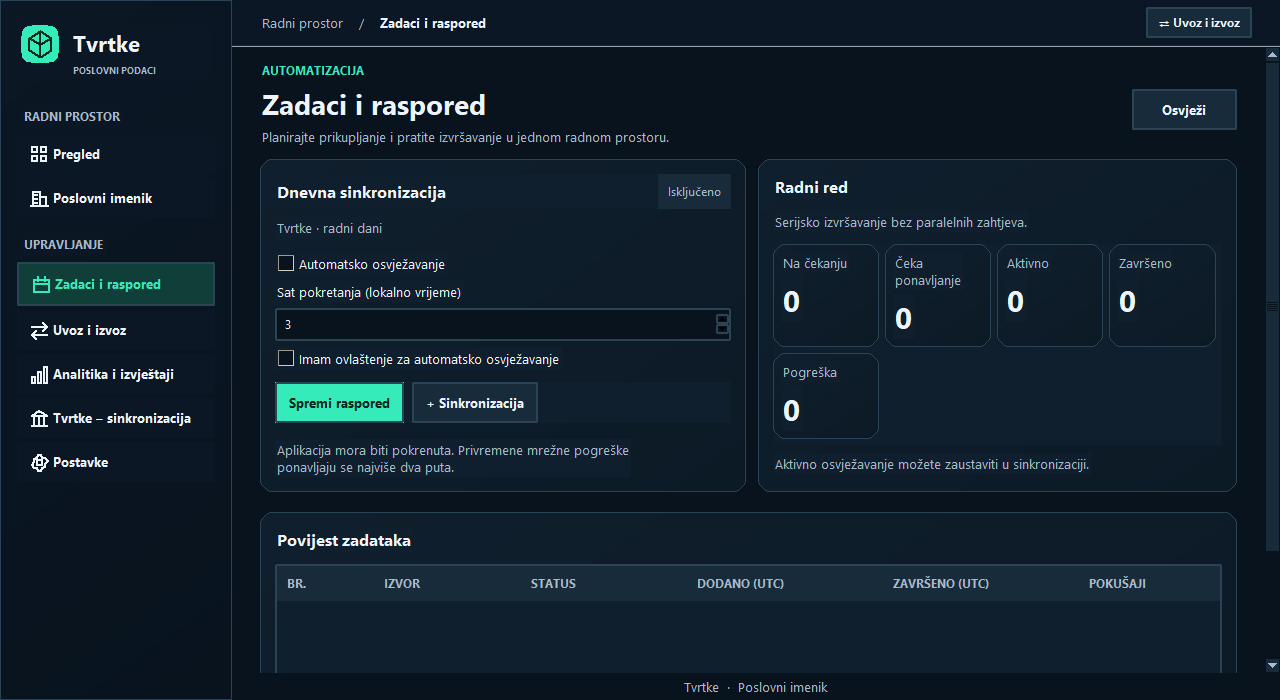
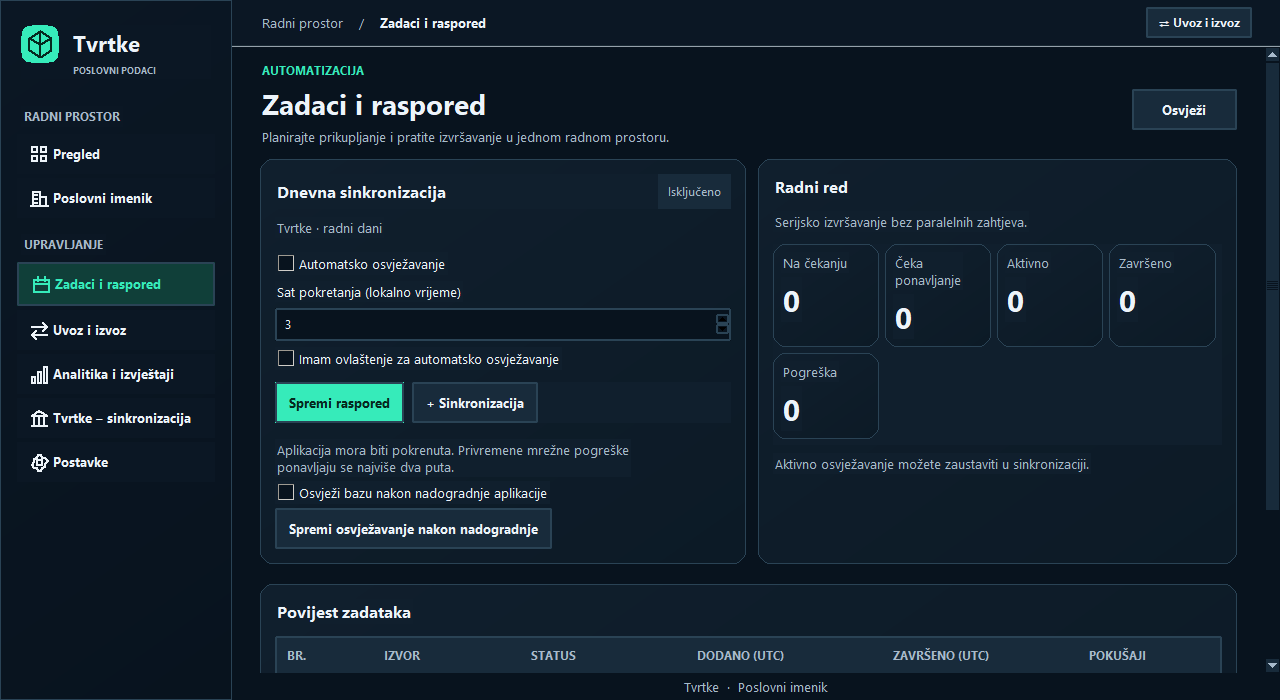
Add native saved companies and access settings, plus isolated WordPress directory prototype

diff --git a/wordpress/tvrtke/tvrtke.php b/wordpress/tvrtke/tvrtke.php
@@ -1,0 +1,194 @@
+<?php
+/**
+ * Plugin Name: Tvrtke
+ * Plugin URI: https://tvrtke.com.hr/
+ * Description: Privatni poslovni imenik, uvoz CSV podataka i spremljeni odabiri.
+ * Version: 0.1.0
+ * Author: Brendigo
+ * Author URI: https://brendigo.com/
+ * Requires PHP: 8.1
+ * Text Domain: tvrtke
+ */
+defined('ABSPATH') || exit;
+
+final class Brendigo_Tvrtke {
+    private const LIMIT = 50;
+    private static function table(): string {
+        global $wpdb;
+        return $wpdb->prefix . 'brendigo_tvrtke';
+    }
+    public static function activate(): void {
+        global $wpdb;
+        require_once ABSPATH . 'wp-admin/includes/upgrade.php';
+        $table = self::table();
+        $collate = $wpdb->get_charset_collate();
+        dbDelta("CREATE TABLE $table (
+            mbs char(9) NOT NULL,
+            oib char(11) NOT NULL DEFAULT '',
+            title varchar(255) NOT NULL,
+            city varchar(120) NOT NULL DEFAULT '',
+            email varchar(254) NOT NULL DEFAULT '',
+            saved tinyint unsigned NOT NULL DEFAULT 0,
+            PRIMARY KEY  (mbs),
+            KEY title (title(150)),
+            KEY city (city),
+            KEY oib (oib),
+            KEY saved (saved,mbs)
+        ) ENGINE=InnoDB $collate;");
+    }
+    public static function menu(): void {
+        add_menu_page('Tvrtke', 'Tvrtke', 'manage_options', 'brendigo-tvrtke', [self::class,'page'], 'dashicons-building');
+    }
+    private static function authorize(string $action): void {
+        if (!current_user_can('manage_options')) {
+            wp_die('Nemate ovlaštenje.', '', ['response'=>403]);
+        }
+        check_admin_referer('tvrtke_'.$action);
+    }
+    private static function input(array $source, string $key): string {
+        return isset($source[$key]) && is_string($source[$key]) ? sanitize_text_field(wp_unslash($source[$key])) : '';
+    }
+    private static function redirect(string $notice): void {
+        wp_safe_redirect(add_query_arg(['page'=>'brendigo-tvrtke','notice'=>$notice],admin_url('admin.php')));
+        exit;
+    }
+    private static function normalize_id(string $value, int $length): string {
+        $value=trim($value);
+        return preg_match('/^[0-9]{1,'.$length.'}$/D',$value) ? str_pad($value,$length,'0',STR_PAD_LEFT) : '';
+    }
+    public static function import(): void {
+        self::authorize('import');
+        global $wpdb;
+        $file=$_FILES['tvrtke_csv']??null;
+        if (!is_array($file) || ($file['error']??1)!==UPLOAD_ERR_OK ||
+            !is_string($file['tmp_name']??null) || !is_uploaded_file($file['tmp_name']) ||
+            filesize($file['tmp_name'])>10*1024*1024) {
+            self::redirect('invalid');
+        }
+        $stream=fopen($file['tmp_name'],'rb');
+        if (!$stream) self::redirect('invalid');
+        $started=false;
+        try {
+            $header=fgetcsv($stream,65536,',','"','');
+            if (!$header) throw new RuntimeException('header');
+            $header=array_map(static fn($v)=>strtolower(trim((string)$v,"\xEF\xBB\xBF \t\r\n")),$header);
+            if (count($header)!==count(array_unique($header)) || !in_array('mbs',$header,true) || !in_array('title',$header,true)) {
+                throw new RuntimeException('header');
+            }
+            $table=self::table();
+            // Require a transactional table rather than silently accepting a partial import.
+            $engine=$wpdb->get_var($wpdb->prepare("SELECT ENGINE FROM information_schema.TABLES WHERE TABLE_SCHEMA=DATABASE() AND TABLE_NAME=%s",$table));
+            if (strtolower((string)$engine)!=='innodb' || $wpdb->query('START TRANSACTION')===false) throw new RuntimeException('transaction');
+            $started=true;
+            $count=0;
+            while (($row=fgetcsv($stream,65536,',','"',''))!==false) {
+                if ($row===[null]) continue;
+                if (++$count>50000 || count($row)!==count($header)) throw new RuntimeException('rows');
+                $data=array_combine($header,$row);
+                $mbs=self::normalize_id((string)$data['mbs'],9);
+                $title=sanitize_text_field((string)$data['title']);
+                $oib=self::normalize_id((string)($data['oib']??''),11);
+                $city=sanitize_text_field((string)($data['city']??''));
+                $email=sanitize_email((string)($data['email']??''));
+                if (!$mbs || !$title || strlen($title)>255 || strlen($city)>120 || strlen($email)>254) throw new RuntimeException('record');
+                $sql=$wpdb->prepare("INSERT INTO $table (mbs,oib,title,city,email) VALUES (%s,%s,%s,%s,%s)
+                    ON DUPLICATE KEY UPDATE oib=IF(VALUES(oib)='',oib,VALUES(oib)),title=VALUES(title),city=IF(VALUES(city)='',city,VALUES(city)),email=IF(VALUES(email)='',email,VALUES(email))",
+                    $mbs,$oib,$title,$city,$email);
+                if ($wpdb->query($sql)===false) throw new RuntimeException('database');
+            }
+            if (!feof($stream) || !$count || $wpdb->query('COMMIT')===false) throw new RuntimeException('commit');
+            $started=false;
+        } catch (Throwable $e) {
+            if ($started) $wpdb->query('ROLLBACK');
+            fclose($stream);
+            self::redirect('invalid');
+        }
+        fclose($stream);
+        self::redirect('imported');
+    }
+    public static function save(): void {
+        self::authorize('save');
+        global $wpdb;
+        $mbs=self::input($_POST,'mbs');
+        $selected=self::input($_POST,'saved');
+        if (!preg_match('/^[0-9]{9}$/D',$mbs) || !in_array($selected,['0','1'],true)) self::redirect('invalid');
+        if ($wpdb->update(self::table(),['saved'=>(int)$selected],['mbs'=>$mbs],['%d'],['%s'])===false) self::redirect('invalid');
+        self::redirect('saved');
+    }
+    public static function export(): void {
+        self::authorize('export');
+        global $wpdb;
+        nocache_headers();
+        header('Content-Type: text/csv; charset=utf-8');
+        header('Content-Disposition: attachment; filename="tvrtke-moj-odabir.csv"');
+        header('X-Content-Type-Options: nosniff');
+        $out=fopen('php://output','wb');
+        fputcsv($out,['mbs','oib','title','city','email'],',','"','');
+        $table=self::table();
+        $cursor='';
+        do {
+            $rows=$wpdb->get_results($wpdb->prepare("SELECT mbs,oib,title,city,email FROM $table WHERE saved=1 AND mbs>%s ORDER BY mbs LIMIT 500",$cursor),ARRAY_A);
+            foreach ($rows as $row) {
+                $cursor=$row['mbs'];
+                $values=array_map(static fn($v)=>preg_match('/^[\s]*[=+\-@]|\A[\t\r\n]/u',(string)$v)?"'".$v:$v,$row);
+                fputcsv($out,$values,',','"','');
+            }
+        } while (count($rows)===500 && !connection_aborted());
+        fclose($out);
+        exit;
+    }
+    public static function page(): void {
+        if (!current_user_can('manage_options')) return;
+        global $wpdb;
+        $q=self::input($_GET,'q');
+        $city=self::input($_GET,'city');
+        $saved=self::input($_GET,'saved')==='1';
+        $contact=self::input($_GET,'contact')==='1';
+        $after=self::input($_GET,'after');
+        if (!preg_match('/^[0-9]{9}$/D',$after)) $after='';
+        $table=self::table();
+        $where=['mbs>%s'];$args=[$after];
+        if ($q!=='') {
+            $where[]='(mbs=%s OR oib=%s OR title LIKE %s)';
+            array_push($args,$q,$q,$wpdb->esc_like($q).'%');
+        }
+        if ($city!=='') {$where[]='city=%s';$args[]=$city;}
+        if ($saved) $where[]='saved=1';
+        if ($contact) $where[]="email<>''";
+        $rows=$wpdb->get_results($wpdb->prepare("SELECT mbs,oib,title,city,email,saved FROM $table WHERE ".implode(' AND ',$where)." ORDER BY mbs LIMIT 51",$args),ARRAY_A);
+        $next=count($rows)>self::LIMIT;
+        $rows=array_slice($rows,0,self::LIMIT);
+        $notices=['imported'=>'Uvoz je dovršen.','saved'=>'Odabir je spremljen.','invalid'=>'Radnja nije uspjela. Provjerite CSV format ili ograničenja uvoza.'];
+        echo '<div class="wrap"><h1>Tvrtke</h1><p>Privatni poslovni imenik · Brendigo</p>';
+        $notice=self::input($_GET,'notice');
+        if (isset($notices[$notice])) echo '<div class="notice notice-info"><p>'.esc_html($notices[$notice]).'</p></div>';
+        echo '<h2>Uvoz podataka</h2><p>CSV s kolonama mbs,title te opcionalno oib,city,email; najviše 50.000 redaka i 10 MiB po uvozu.</p>';
+        echo '<form method="post" enctype="multipart/form-data" action="'.esc_url(admin_url('admin-post.php')).'"><input type="hidden" name="action" value="brendigo_tvrtke_import">';
+        wp_nonce_field('tvrtke_import');
+        echo '<input type="file" name="tvrtke_csv" accept=".csv,text/csv" required> ';
+        submit_button('Uvezi', 'primary', 'submit', false);echo '</form>';
+        echo '<h2>Poslovni imenik</h2><form method="get"><input type="hidden" name="page" value="brendigo-tvrtke"><label>Naziv, OIB ili MBS <input name="q" value="'.esc_attr($q).'"></label> <label>Grad <input name="city" value="'.esc_attr($city).'"></label> <label><input type="checkbox" name="contact" value="1" '.checked($contact,true,false).'> Ima e-poštu</label> <label><input type="checkbox" name="saved" value="1" '.checked($saved,true,false).'> Moje tvrtke</label> ';
+        submit_button('Pretraži','secondary','submit',false);echo '</form><table class="widefat striped"><thead><tr><th>Tvrtka</th><th>MBS</th><th>OIB</th><th>Grad</th><th>E-pošta</th><th>Odabir</th></tr></thead><tbody>';
+        foreach ($rows as $row) {
+            echo '<tr>';
+            foreach (['title','mbs','oib','city','email'] as $field) echo '<td>'.esc_html($row[$field]).'</td>';
+            echo '<td><form method="post" action="'.esc_url(admin_url('admin-post.php')).'"><input type="hidden" name="action" value="brendigo_tvrtke_save"><input type="hidden" name="mbs" value="'.esc_attr($row['mbs']).'"><input type="hidden" name="saved" value="'.($row['saved']?'0':'1').'">';
+            wp_nonce_field('tvrtke_save');submit_button($row['saved']?'Ukloni':'Spremi','secondary','submit',false);
+            echo '</form></td></tr>';
+        }
+        if (!$rows) echo '<tr><td colspan="6">Nema rezultata.</td></tr>';
+        echo '</tbody></table>';
+        if ($next) {
+            $last=end($rows);
+            echo '<p><a class="button" href="'.esc_url(add_query_arg(['page'=>'brendigo-tvrtke','q'=>$q,'city'=>$city,'saved'=>$saved?'1':'0','contact'=>$contact?'1':'0','after'=>$last['mbs']],admin_url('admin.php'))).'">Sljedeća stranica</a></p>';
+        }
+        echo '<form method="post" action="'.esc_url(admin_url('admin-post.php')).'"><input type="hidden" name="action" value="brendigo_tvrtke_export">';
+        wp_nonce_field('tvrtke_export');submit_button('Izvezi Moje tvrtke (CSV)');echo '</form>';
+        echo '<p><a href="https://tvrtke.com.hr/" target="_blank" rel="noopener noreferrer">tvrtke.com.hr</a> · <a href="https://brendigo.com/" target="_blank" rel="noopener noreferrer">Brendigo</a></p></div>';
+    }
+}
+register_activation_hook(__FILE__,[Brendigo_Tvrtke::class,'activate']);
+add_action('admin_menu',[Brendigo_Tvrtke::class,'menu']);
+add_action('admin_post_brendigo_tvrtke_import',[Brendigo_Tvrtke::class,'import']);
+add_action('admin_post_brendigo_tvrtke_save',[Brendigo_Tvrtke::class,'save']);
+add_action('admin_post_brendigo_tvrtke_export',[Brendigo_Tvrtke::class,'export']);

diff --git a/src/native_desktop.py b/src/native_desktop.py
@@ -328,7 +328,27 @@ class Desktop(SecondaryPages):
         connection=Card(right,"Pristup poslovnim podacima",padding=15);connection.pack(fill="x",pady=(0,12))
         self.access_status=tk.StringVar(value="Provjera pristupa…")
         ttk.Label(connection,textvariable=self.access_status).pack(anchor="w",pady=4)
-        ttk.Button(connection,text="Upravljaj pristupom",command=self.sync_dialog).pack(anchor="w",pady=6)
+        ttk.Label(connection,text="Za osvježavanje podataka potreban je ovlašten pristup.",style="PanelMuted.TLabel",wraplength=350).pack(anchor="w",pady=(0,8))
+        client_id=tk.StringVar();client_secret=tk.StringVar();persist=tk.BooleanVar(value=True)
+        for label,var,mask in (("Client ID",client_id,""),("Client Secret",client_secret,"•")):
+            ttk.Label(connection,text=label,style="PanelMuted.TLabel").pack(anchor="w",pady=(5,3))
+            ttk.Entry(connection,textvariable=var,show=mask).pack(fill="x")
+        ttk.Checkbutton(connection,text="Spremi ovlaštene pristupne podatke",variable=persist).pack(anchor="w",pady=8)
+        def save_access():
+            if not self.client or not messagebox.askyesno("Tvrtke","Potvrđujete ovlašten pristup poslovnim podacima?"):return
+            data={"client_id":client_id.get(),"client_secret":client_secret.get(),"persist":persist.get(),"permission":True}
+            client_secret.set("")
+            self.submit(lambda:self.client.request("/api/registry/credentials",data=data),lambda _:self.refresh_settings())
+        def forget_access():
+            if self.client and messagebox.askyesno("Tvrtke","Ukloniti spremljene pristupne podatke?"):
+                def done(data):
+                    self.refresh_settings()
+                    if not data.get("revocation_verified",True):self.status.set("Brisanje iz sigurnog spremišta nije potvrđeno.")
+                self.submit(lambda:self.client.request("/api/registry/forget",data={}),done)
+        buttons=ttk.Frame(connection);buttons.pack(fill="x",pady=6)
+        ttk.Button(buttons,text="Primijeni pristup",style="Accent.TButton",command=save_access).pack(side="left")
+        ttk.Button(buttons,text="Ukloni pristup",command=forget_access).pack(side="left",padx=6)
+        ttk.Button(connection,text="Tvrtke – sinkronizacija",command=lambda:self.show_view("registry")).pack(anchor="w",pady=4)
         cleanup=Card(right,"Uređivanje baze",padding=15);cleanup.pack(fill="x")
         ttk.Label(cleanup,text="Pregledajte moguće duplikate prije spajanja.",wraplength=350).pack(anchor="w")
         ttk.Button(cleanup,text="Pregled duplikata",command=self.duplicate_dialog).pack(anchor="w",pady=6)
@@ -527,6 +547,7 @@ class Desktop(SecondaryPages):
         results.pack(fill="both",expand=True)
         resultbar=ttk.Frame(results,style="PanelInner.TFrame");resultbar.pack(fill="x",pady=(0,9))
         ttk.Label(resultbar,textvariable=self.stats,style="PanelTitle.TLabel").pack(side="left")
+        ttk.Button(resultbar,text="Moje tvrtke",command=self.saved_dialog).pack(side="right")
         table=ttk.Frame(results,style="PanelInner.TFrame")
         table.pack(fill="both",expand=True)
         self.tree=ttk.Treeview(table,columns=("name","city","phone","web","source","action"),show="headings",selectmode="browse",height=7)
@@ -717,11 +738,57 @@ class Desktop(SecondaryPages):
             if index==1:self.submit(lambda:self.client.request(f"/api/history/{company['id']}"),fill_history)
             if index==2:load()
         notebook.bind("<<NotebookTabChanged>>",tab_changed)
-        ttk.Button(dialog,text="Zatvori",command=dialog.destroy).pack(anchor="e",padx=18,pady=10)
+        controls=ttk.Frame(dialog,padding=(18,6))
+        controls.pack(fill="x")
+        ttk.Button(controls,text="Zatvori",command=dialog.destroy).pack(side="right")
+        if len(company.get("mbs") or "")==9 and company["mbs"].isascii() and company["mbs"].isdigit():
+            def save():
+                self.submit(lambda:self.client.request("/api/saved-companies",data={"mbs":company["mbs"],"saved":True}),lambda _:self.status.set("Tvrtka je spremljena u Moje tvrtke."))
+            ttk.Button(controls,text="Spremi u Moje tvrtke",style="Accent.TButton",command=save).pack(side="left")
         if self.smoke:
             self.result=0 if company.get("title")=="Sintetička tvrtka" else 1
             dialog.destroy()
             self.close()
+
+    def saved_dialog(self):
+        if not self.client:return
+        dialog=tk.Toplevel(self.root);dialog.title("Tvrtke – Moje tvrtke");dialog.geometry("840x540");dialog.configure(bg=BG)
+        dialog.transient(self.root)
+        body=ttk.Frame(dialog,padding=18);body.pack(fill="both",expand=True)
+        self.section_header(body,"MOJ ODABIR","Moje tvrtke","Spremljeni poslovni subjekti. Odabir ne mijenja poslovne podatke.")
+        table=ttk.Treeview(body,columns=("name","mbs","city","email"),show="headings",height=7)
+        for key,label,width in (("name","Tvrtka",260),("mbs","MBS",100),("city","Grad",100),("email","E-pošta",180)):
+            table.heading(key,text=label,anchor="w");table.column(key,width=width)
+        table.pack(fill="both",expand=True)
+        buttons=ttk.Frame(body);buttons.pack(fill="x",pady=8)
+        items={};cursor="";following="";generation=0
+        def load(after=""):
+            nonlocal cursor,generation
+            cursor=after;generation+=1;seq=generation
+            def done(data):
+                nonlocal following
+                if not dialog.winfo_exists() or seq!=generation:return
+                table.delete(*table.get_children());items.clear()
+                for row in data["rows"]:
+                    items[row["mbs"]]=row
+                    table.insert("","end",iid=row["mbs"],values=(row["title"],row["mbs"],row["city"] or "—",row["email"] or "—"))
+                following=data["next"]
+                next_button.configure(state="normal" if following else "disabled")
+            self.submit(lambda:self.client.request("/api/saved-companies",{"after":after}),done)
+        def selected():
+            return items.get(table.selection()[0]) if table.selection() else None
+        def open_profile():
+            row=selected()
+            if row and row["id"] is not None:self.submit(lambda:self.client.request(f"/api/company/{row['id']}"),self.profile)
+        def remove():
+            row=selected()
+            if row and messagebox.askyesno("Tvrtke","Ukloniti tvrtku samo iz spremljenog odabira?",parent=dialog):
+                self.submit(lambda:self.client.request("/api/saved-companies",data={"mbs":row["mbs"],"saved":False}),lambda _:load(cursor) if dialog.winfo_exists() else None)
+        ttk.Button(buttons,text="Otvori profil",command=open_profile).pack(side="left")
+        ttk.Button(buttons,text="Ukloni iz odabira",command=remove).pack(side="left",padx=6)
+        next_button=ttk.Button(buttons,text="Sljedeća",command=lambda:load(following),state="disabled");next_button.pack(side="right")
+        ttk.Button(buttons,text="Prva stranica",command=lambda:load()).pack(side="right",padx=6)
+        table.bind("<Double-1>",lambda _e:open_profile());load()
 
     def duplicate_dialog(self):
         if not self.client or self.merge_active:return

diff --git a/src/local_http_routes.py b/src/local_http_routes.py
@@ -16,6 +16,7 @@ from registry_export import export as registry_export
 from field_export import export_selected, selected_fields
 from cryptography.exceptions import InvalidTag
 from crawlvora_mail import MailService, TEMPLATES
+from saved_companies import browse as saved_browse, change as saved_change
 from duplicate_review import preview as duplicate_preview, merge as duplicate_merge
 
 
@@ -55,6 +56,7 @@ def make_handler(*, ROOT, TOKEN, args, active, collector, database,
                 if p.path=='/api/mail/templates': return self.send_data(TEMPLATES)
                 if p.path=='/api/mail/history': return self.send_data(mail.history(int(get('company_id','0'))))
                 if p.path=='/api/duplicates': return self.send_data(duplicate_preview(store))
+                if p.path=='/api/saved-companies': return self.send_data(saved_browse(store,get('after')))
                 if p.path=='/api/jobs': return self.send_data(queue.summary())
                 if p.path.startswith('/api/history/'): return self.send_data(store.history(int(p.path.rsplit('/',1)[1])))
                 if p.path in ('/api/registry/export-xlsx','/api/registry/export-xml','/api/registry/export-sql'):
@@ -264,6 +266,7 @@ def make_handler(*, ROOT, TOKEN, args, active, collector, database,
                     return self.send_data(dict(queue.direct(forget_access),ok=True))
                 if self.path=='/api/jobs/add': return self.send_data(queue.enqueue(data.get('kind'),data.get('config',{})))
                 if self.path=='/api/jobs/cancel': return self.send_data(queue.cancel(data.get('id')))
+                if self.path=='/api/saved-companies': return self.send_data(queue.direct(lambda:saved_change(store,data.get('mbs'),data.get('saved'))))
                 if self.path=='/api/jobs/update-sync':
                     return self.send_data(queue.update_policy(data.get('enabled'),data.get('permission')))
                 if self.path=='/api/jobs/schedule':

diff --git a/tests/test_saved_companies.py b/tests/test_saved_companies.py
@@ -1,0 +1,30 @@
+import tempfile
+import unittest
+from pathlib import Path
+from native_client import WorkerProcess
+
+class SavedCompaniesTests(unittest.TestCase):
+    def test_authenticated_saved_selection_survives_restart(self):
+        with tempfile.TemporaryDirectory() as tmp:
+            root=Path(tmp)
+            worker=WorkerProcess(root,smoke=True)
+            try:
+                from native_transfer import upload
+                p=root/"fixture.json"
+                p.write_text('[{"title":"Testna tvrtka","mbs":"000000001"}]',encoding="utf-8")
+                upload(worker.client,"/api/import-json",p)
+                client=worker.client
+                self.assertEqual(client.request("/api/saved-companies")["rows"],[])
+                client.request("/api/saved-companies",data={"mbs":"000000001","saved":True})
+                client.request("/api/saved-companies",data={"mbs":"000000001","saved":True})
+                self.assertEqual(len(client.request("/api/saved-companies")["rows"]),1)
+                with self.assertRaises(ValueError):client.request("/api/saved-companies",data={"mbs":"000000002","saved":True})
+            finally:worker.close()
+            worker=WorkerProcess(root,smoke=True)
+            try:
+                client=worker.client
+                self.assertEqual(client.request("/api/saved-companies")["rows"][0]["mbs"],"000000001")
+                client.request("/api/saved-companies",data={"mbs":"000000001","saved":False})
+                self.assertFalse(client.request("/api/saved-companies")["rows"])
+                self.assertEqual(client.request("/api/stats")["total"],1)
+            finally:worker.close()

diff --git a/src/saved_companies.py b/src/saved_companies.py
@@ -1,0 +1,28 @@
+"""Workspace-private bookmarks keyed by stable official MBS, not transient SQLite IDs."""
+import re
+
+def schema(c):
+    c.execute("""CREATE TABLE IF NOT EXISTS saved_companies (
+        mbs TEXT PRIMARY KEY, title TEXT NOT NULL, saved_at TEXT NOT NULL DEFAULT CURRENT_TIMESTAMP
+    )""")
+
+def change(store,mbs,selected):
+    if not isinstance(mbs,str) or not re.fullmatch(r"[0-9]{9}",mbs) or type(selected) is not bool:
+        raise ValueError("Neispravan odabir tvrtke.")
+    with store.db() as c:
+        schema(c)
+        if selected:
+            row=c.execute("SELECT title FROM companies WHERE mbs=?",(mbs,)).fetchone()
+            if row is None:raise ValueError("Tvrtka nije pronađena.")
+            c.execute("INSERT OR IGNORE INTO saved_companies(mbs,title) VALUES (?,?)",(mbs,row["title"]))
+        else:c.execute("DELETE FROM saved_companies WHERE mbs=?",(mbs,))
+        return {"saved":selected}
+
+def browse(store,after=""):
+    if not isinstance(after,str) or (after and not re.fullmatch(r"[0-9]{9}",after)):raise ValueError("Neispravan pokazivač.")
+    with store.db() as c:
+        schema(c)
+        rows=[dict(r) for r in c.execute("""SELECT s.mbs,coalesce(c.title,s.title) title,c.id,c.city,c.email,s.saved_at
+              FROM saved_companies s LEFT JOIN companies c ON c.mbs=s.mbs
+              WHERE s.mbs>? ORDER BY s.mbs LIMIT 101""",(after,))]
+        return {"rows":rows[:100],"next":rows[99]["mbs"] if len(rows)>100 else ""}

diff --git a/docs/NATIVE-UI-MIGRATION.md b/docs/NATIVE-UI-MIGRATION.md
@@ -36,3 +36,5 @@ The seven native PNGs are kept separately from existing renderer reference image
 Exact 1280×700 lossless RGB comparison is now available: see [visual acceptance](visual-acceptance/README.md). Every current main view still fails the zero-difference threshold. The existing renderer remains in production pending full native parity.
 
 The next candidate uses procedural native rounded cards and gradients, a three-panel analytics view, directory source filters, queue status cards and the original launch icon. The 30% per-view threshold is diagnostic only and has not passed. Production parity, protected backup and mail flows, full DPI/OS acceptance and all release packages remain outstanding.
+
+Settings now include native authorized API credential fields and revocation, with synchronization remaining in its own view. My companies opens from the directory and uses stable MBS bookmarks, not copied records. The separate WordPress prototype does not enter the desktop runtime. Current native visual acceptance remains above the required 30% threshold; the existing reference renderer is retained.

diff --git a/wordpress/README.md b/wordpress/README.md
@@ -1,0 +1,7 @@
+# Tvrtke za WordPress
+
+Samostalni dodatak (prototip 0.1.0) za administratore: uvoz CSV-a, pretraživanje po MBS-u, OIB-u, nazivu i gradu, filtar e-pošte, Moje tvrtke i CSV izvoz odabira. Nema javnih endpointa, automatskog slanja e-pošte ni uključene baze. Podaci ostaju u WordPress bazi. Deaktivacija ne briše podatke.
+
+Instalacija: zapakirati mapu `tvrtke` u ZIP, učitati kroz Dodaci → Dodaj novi. Uvoz prihvaća `mbs,title,oib,city,email` (mbs i title obavezni), najviše 50.000 redaka i 10 MiB po datoteci. Veći skupovi zahtijevaju odvojene uvoze. Koristiti samo podatke za koje postoji pravo korištenja; poslovna adresa e-pošte nije sama po sebi privola za marketing.
+
+Prije produkcije: WordPress/MySQL/MariaDB integracijski testovi, izravna autorizirana API sinkronizacija, upravljanje privolama, predlošci i slanje e-pošte, potpuna sigurnosna provjera. Dodatak je odvojen od četiri desktop paketa i ne mijenja 11-datotečni ugovor izdanja.

diff --git a/CHANGELOG.md b/CHANGELOG.md
@@ -2,6 +2,9 @@
 
 ## 8.1.7
 
+- Harden registry OAuth and HTTP retry handling and correct CI test fixtures and Pillow installation.
+- Add native saved company selection keyed by MBS, restore access credentials to Settings, and introduce an isolated administrator-only WordPress directory prototype.
+
 - Use complete compact 11-file regular releases with database-free installers and portable packages; add opt-in authorized registry refresh on the first launch of each new installed version.
 
 - Enforce an independent mandatory 16-file release contract and verify Linux installer/archive acceptance receipts alongside Windows installer/portable receipts before publication.
